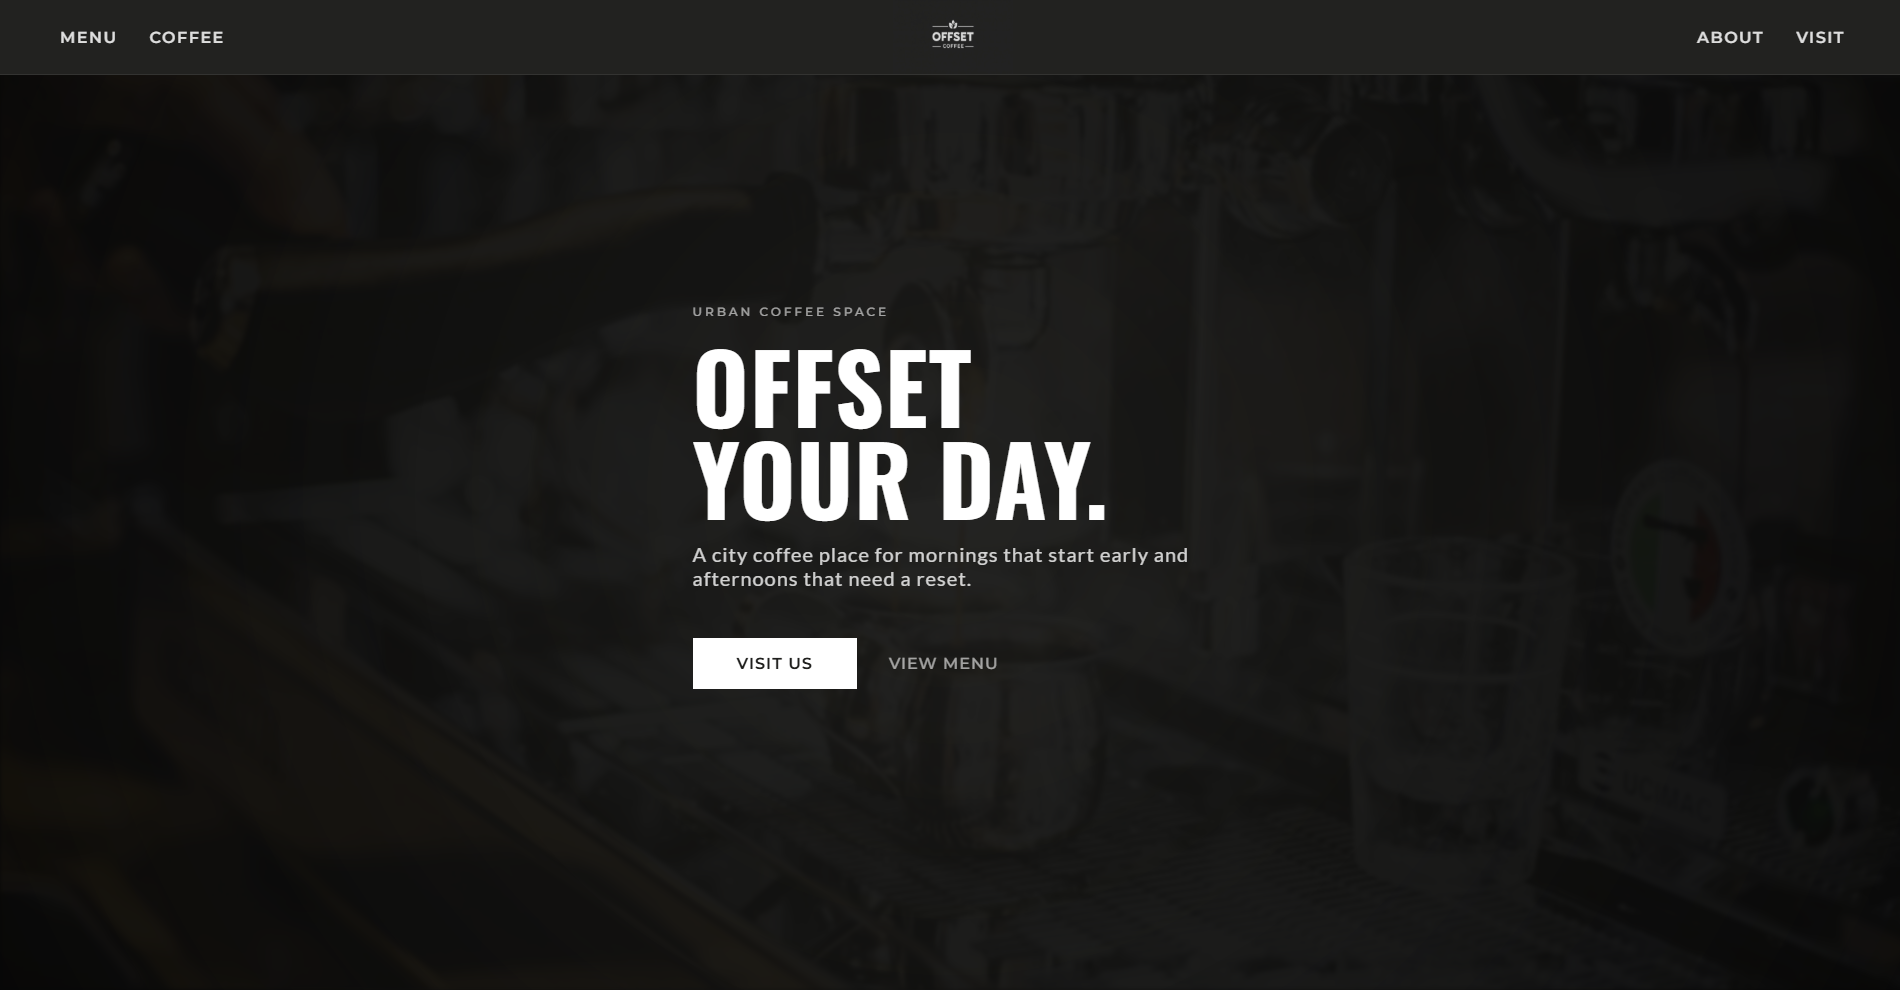
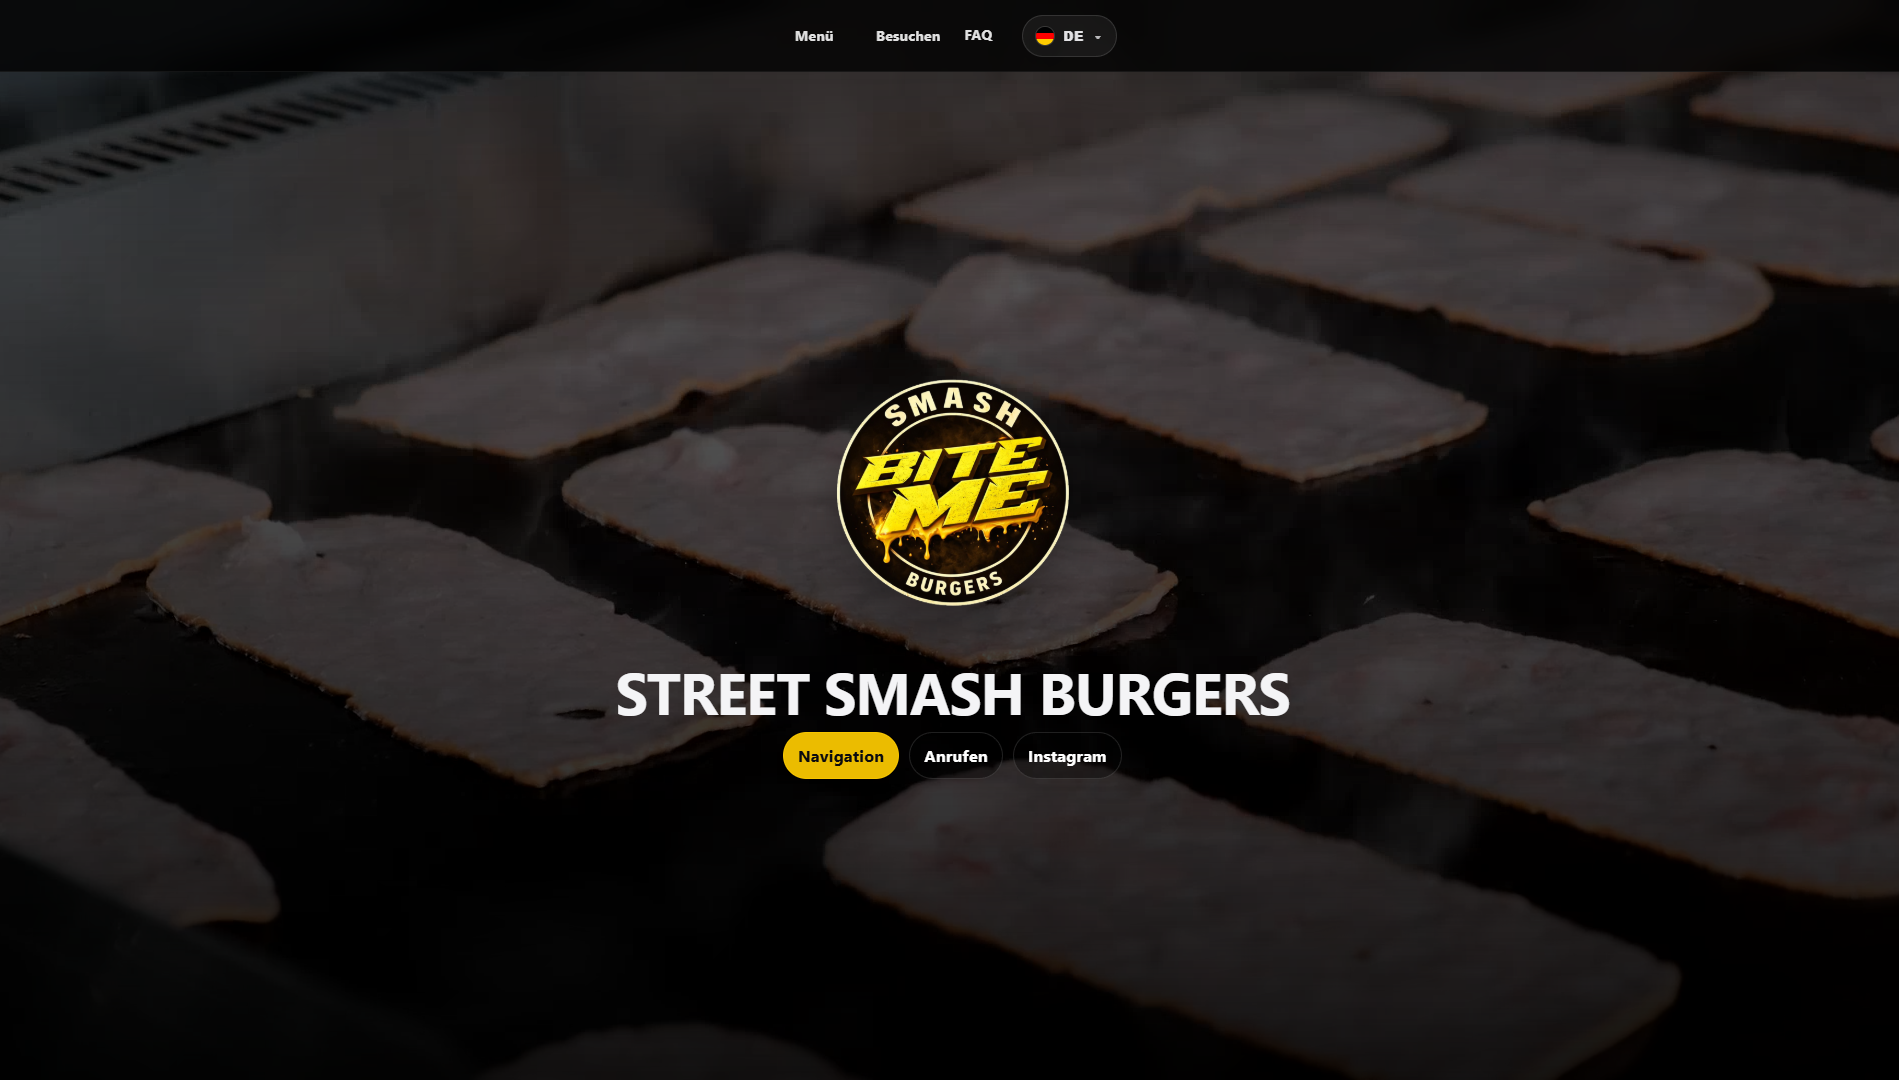
h1 edit, bite me project added

diff --git a/project/bite-me.html b/project/bite-me.html
@@ -5,19 +5,20 @@
     <meta charset="UTF-8">
     <meta name="viewport" content="width=device-width, initial-scale=1.0">
 
-    <title>OFFSET Coffee | Marek Oláh Web Developer | marek.codes</title>
-    
+    <title>BITE ME Burgers | Web projekt | Marek Oláh | marek.codes</title>
+    <meta name="description"
+        content="Prezentační web pro streetfood stánek BITE ME Burgers. Důraz na atmosféru značky, přehledné menu, mobilní použitelnost a rychlou orientaci.">
+
     <meta property="og:type" content="website">
-    <meta property="og:url" content="https://marek-codes.cz/project/offset-coffee">
-    <meta property="og:title" content="OFFSET Coffee | Web projekt | marek.codes">
-    <meta property="og:description" content="Minimalistická landing page pro kavárnu. Moderní design, CTA, responsivní web.">
+    <meta property="og:url" content="https://marek-codes.cz/project/bite-me">
+    <meta property="og:title" content="BITE ME Burgers | Web projekt | marek.codes">
+    <meta property="og:description"
+        content="Prezentační web pro streetfood stánek s důrazem na atmosféru značky, přehledné menu a rychlou orientaci.">
     <meta property="og:image" content="https://marek-codes.cz/assets/img/project-1.png">
     <meta property="og:image:width" content="1200">
     <meta property="og:image:height" content="630">
 
-    <link rel="canonical" href="https://marek-codes.cz/project/offset-coffee">
-
-    
+    <link rel="canonical" href="https://marek-codes.cz/project/bite-me">
 
     <!-- Google tag (gtag.js) -->
     <script async src="https://www.googletagmanager.com/gtag/js?id=G-PQL4NTPRN0"></script>
@@ -37,14 +38,12 @@
         gtag('config', 'G-PQL4NTPRN0', { anonymize_ip: true });
     </script>
 
-
     <link rel="stylesheet" href="/css/main.css">
     <link rel="stylesheet" href="/css/navbar.css">
     <link rel="stylesheet" href="/css/project-detail.css">
     <link rel="stylesheet" href="/css/footer.css">
     <link rel="stylesheet" href="/css/queries.css">
     <link rel="icon" href="/assets/icons/favicon.png">
-
 
     <style>
         @import url('https://fonts.googleapis.com/css2?family=Inter:wght@100..900&family=Space+Grotesk:wght@300..700&display=swap');
@@ -75,31 +74,34 @@
         </div>
     </header>
 
-
     <main class="project-detail">
         <div class="container">
             <div class="breadcrumbs reveal">
-                <a href="/#projects" data-cz="← Zpět na projekty" data-en="← Back to projects">← Zpět na
-                    projekty</a>
+                <a href="/#projects" data-cz="← Zpět na projekty" data-en="← Back to projects">← Zpět na projekty</a>
                 <span>/</span>
-                <span data-cz="OFFSET Coffee" data-en="OFFSET Coffee">OFFSET Coffee</span>
+                <span data-cz="BITE ME Burgers" data-en="BITE ME Burgers">BITE ME Burgers</span>
             </div>
 
             <div class="wrap">
                 <!-- vlevo -->
                 <section class="project-hero reveal">
-                    <img src="/assets/img/project-1.png" alt="OFFSET Coffee, náhled webu">
+                    <img src="/assets/img/project-1.png" alt="BITE ME Burgers, náhled webu">
                 </section>
 
                 <!-- vpravo -->
                 <aside class="project-meta reveal">
-                    <h1 class="project-title" data-cz="OFFSET Coffee" data-en="OFFSET Coffee">OFFSET Coffee</h1>
+                    <h1 class="project-title" data-cz="BITE ME Burgers" data-en="BITE ME Burgers">
+                        BITE ME Burgers
+                    </h1>
 
                     <p class="project-lead"
-                        data-cz="Minimalistická landing page pro kavárnu, postavená na vibe a rychlé orientaci. Navrhl jsem čistou strukturu sekcí s jasnými CTA, aby se návštěvník rychle dostal k menu, lokaci a kontaktu"
-                        data-en="A minimalist landing page for a café, built around vibe and quick orientation. Clean layout, clear CTAs, and a menu section that helps visitors decide fast.">
-                        Minimalistická landing page pro kavárnu, postavená na vibe a rychlé orientaci. Navrhl jsem
-                        čistou strukturu sekcí s jasnými CTA, aby se návštěvník rychle dostal k menu, lokaci a kontaktu
+                        data-cz="Web pro streetfood koncept BITE ME Burgers byl navržen s cílem spojit výraznou vizuální atmosféru značky s jednoduchou a funkční strukturou. Hlavní důraz byl na rychlé pochopení nabídky, přehledné zobrazení menu, snadnou orientaci na mobilu a jasné odkomunikování lokace, otevírací doby a kontaktu. Cílem nebylo jen vytvořit hezkou prezentaci, ale web, který podpoří reálné návštěvy stánku a bude působit moderně, svižně a důvěryhodně."
+                        data-en="The website for the street food concept BITE ME Burgers was designed to combine a bold brand atmosphere with a simple and functional structure. The main focus was on quick understanding of the offer, a clear menu presentation, easy mobile navigation, and clear communication of the location, opening hours, and contact details. The goal was not just to create a good-looking presentation, but a website that supports real visits to the stand and feels modern, fast, and trustworthy.">
+                        Web pro streetfood koncept BITE ME Burgers byl navržen s cílem spojit výraznou vizuální
+                        atmosféru značky s jednoduchou a funkční strukturou. Hlavní důraz byl na rychlé pochopení
+                        nabídky, přehledné zobrazení menu, snadnou orientaci na mobilu a jasné odkomunikování lokace,
+                        otevírací doby a kontaktu. Cílem nebylo jen vytvořit hezkou prezentaci, ale web, který podpoří
+                        reálné návštěvy stánku a bude působit moderně, svižně a důvěryhodně.
                     </p>
 
                     <div class="tags">
@@ -111,52 +113,51 @@
                     </div>
 
                     <div class="actions">
-                        <a class="btn" href="https://offset-coffee.netlify.app/" target="_blank" rel="noopener"
+                        <a class="btn" href="https://bite-me-burgers.cz/" target="_blank" rel="noopener"
                             data-cz="Zobrazit live" data-en="View live">Zobrazit live</a>
 
                         <a class="btn-outline" href="/#contact" data-cz="Chci podobný web"
-                            data-en="I want one like this">Chci podobný web</a>
+                            data-en="I want a similar website">Chci podobný web</a>
                     </div>
 
                     <div class="detail-section">
                         <h3 data-cz="Co jsem řešil" data-en="What I focused on">Co jsem řešil</h3>
                         <ul>
-                            <li data-cz="Typografie a vizuální hierarchie pro rychlé pochopení nabídky"
-                                data-en="Typography and visual hierarchy for fast understanding">
-                                Typografie a vizuální hierarchie pro rychlé pochopení nabídky
+                            <li data-cz="Přehledné zobrazení menu a klíčových informací"
+                                data-en="Clear presentation of the menu and key information">
+                                Přehledné zobrazení menu a klíčových informací
                             </li>
-                            <li data-cz="CTA sekce, aby uživatel vždy věděl další krok"
-                                data-en="CTA sections so the user always knows the next step">
-                                CTA sekce, aby uživatel vždy věděl další krok
+                            <li data-cz="Atmosféru značky a silnější vizuální prezentaci"
+                                data-en="Brand atmosphere and a stronger visual presentation">
+                                Atmosféru značky a silnější vizuální prezentaci
                             </li>
-                            <li data-cz="Micro-interakce na hover a jemný motion bez přehnaností"
-                                data-en="Hover micro-interactions and subtle motion without overdoing it">
-                                Micro-interakce na hover a jemný motion bez přehnaností
+                            <li data-cz="Mobilní použitelnost a rychlou orientaci návštěvníka"
+                                data-en="Mobile usability and fast visitor orientation">
+                                Mobilní použitelnost a rychlou orientaci návštěvníka
                             </li>
                         </ul>
                     </div>
 
                     <div class="detail-section">
                         <h3 data-cz="Výsledek" data-en="Result">Výsledek</h3>
-                        <p data-cz="Přehledná landing page, která působí moderně a vede návštěvníka k akci."
-                            data-en="A clean, modern landing page that guides visitors to take action.">
-                            Přehledná landing page, která působí moderně a vede návštěvníka k akci.
+                        <p data-cz="Vznikl svižný prezentační web, který propojuje vizuální energii značky s praktickou použitelností a podporuje reálné návštěvy provozu."
+                            data-en="The result is a fast presentation website that connects the brand’s visual energy with practical usability and supports real visits to the business.">
+                            Vznikl svižný prezentační web, který propojuje vizuální energii značky s praktickou
+                            použitelností a podporuje reálné návštěvy provozu.
                         </p>
                     </div>
                 </aside>
             </div>
 
             <section class="gallery reveal">
-                <img src="/assets/img/PROJECT-DETAIL/OFFSET-about.png" alt="OFFSET Coffee, sekce About"
+                <img src="/assets/img/PROJECT-DETAIL/biteme-menu.png" alt="BITE ME, sekce menu"
                     loading="lazy" decoding="async">
 
-                <img src="/assets/img/PROJECT-DETAIL/OFFSET-menu.png" alt="OFFSET Coffee, sekce Menu"
+                <img src="/assets/img/PROJECT-DETAIL/biteme-visit.png" alt="BITE ME, sekce návštěvy"
                     loading="lazy" decoding="async">
             </section>
         </div>
     </main>
-
-
 
     <footer id="footer">
         <div class="container footer-inner">
@@ -188,8 +189,8 @@
                 </button>
 
                 <small data-cz="© 2026 Marek Oláh. Všechna práva vyhrazena."
-                    data-en="© 2026 Marek. All rights reserved.">
-                    © 2026 Marek. Všechna práva vyhrazena.
+                    data-en="© 2026 Marek Oláh. All rights reserved.">
+                    © 2026 Marek Oláh. Všechna práva vyhrazena.
                 </small>
 
                 <div class="footer-social" aria-label="Social links">
@@ -214,7 +215,6 @@
         </div>
     </footer>
 
-
     <div id="cookie-banner" class="cookie-banner" role="dialog" aria-live="polite" aria-label="Cookie consent">
         <div class="cookie-banner__content">
             <p class="cookie-banner__text"
@@ -231,8 +231,6 @@
             </div>
         </div>
     </div>
-
-
 
     <script src="/js/navbar.js"></script>
     <script src="/js/main.js"></script>

diff --git a/index.html b/index.html
@@ -5,27 +5,27 @@
     <meta charset="UTF-8">
     <meta name="viewport" content="width=device-width, initial-scale=1.0">
 
-    <title>marek.codes | Web developer, Marek Oláh</title>
+    <title>marek-codes | Web developer, Marek Oláh</title>
     <meta name="description"
         content="Jsem Marek. Stavím moderní a rychlé weby s důrazem na čistý design, výkon a detail. Mrkni na projekty a napiš mi.">
     <link rel="canonical" href="https://marek-codes.cz/">
 
     <meta property="og:type" content="website">
     <meta property="og:url" content="https://marek-codes.cz/">
-    <meta property="og:title" content="Marek Oláh | Web developer, tvorba webů na míru | marek.codes">
+    <meta property="og:title" content="Marek Oláh | Web developer, tvorba webů na míru | marek-codes">
     <meta property="og:description" content="Moderní rychlé weby. Portfolio projektů, služby, kontakt.">
     <meta property="og:locale" content="cs_CZ">
     <meta property="og:locale:alternate" content="en_US">
     <meta property="og:image" content="https://marek-codes.cz/assets/img/og-img.png">
     <meta property="og:image:width" content="1200">
     <meta property="og:image:height" content="630">
-    <meta property="og:image:alt" content="marek.codes – Moderní rychlé weby (design, výkon, detail)">
+    <meta property="og:image:alt" content="marek-codes – Moderní rychlé weby (design, výkon, detail)">
     <meta property="og:image:secure_url" content="https://marek-codes.cz/assets/img/og-img.png">
     <meta property="og:image:type" content="image/png">
 
 
     <meta name="twitter:card" content="summary_large_image">
-    <meta name="twitter:title" content="Marek Oláh | Web developer, marek.codes">
+    <meta name="twitter:title" content="Marek Oláh | Web developer, marek-codes">
     <meta name="twitter:description"
         content="Jsem Marek. Stavím moderní a rychlé weby s důrazem na čistý design, výkon a detail. Mrkni na projekty a napiš mi.">
     <meta name="twitter:image" content="https://marek-codes.cz/assets/img/og-img.png">
@@ -78,7 +78,7 @@
 
     <header id="navbar">
         <div class="container nav-container">
-            <a href="/" class="logo">marek.codes</a>
+            <a href="/" class="logo">marek-codes</a>
 
             <button class="nav-toggle" aria-label="Open menu">
                 <span></span>
@@ -106,14 +106,15 @@
     <section id="hero">
         <div class="section-bg"></div>
         <div class="container section-card hero-content">
-            <h1 data-cz="Stavím moderní, funkční weby s důrazem na detail." 
-            data-en="I build modern, functional websites with attention to detail."> 
-            Stavím moderní, funkční weby s důrazem na detail.
+            <h1 data-cz="Weby navržené pro přehlednost, rychlost a reálné použití." 
+            data-en="Websites designed for clarity, speed, and real-world use."> 
+            Weby navržené pro přehlednost, rychlost a reálné použití.
             </h1>
 
-            <p data-cz="Jmenuji se Marek a věnuji se návrhu a vývoji moderních webových stránek. Zakládám si na čistém kódu, výkonu a přehledném řešení."
-                data-en="My name is Marek, and I design and build modern websites. I focus on clean code, performance, and clarity.">
+            <p data-cz="Jmenuji se Marek a věnuji se návrhu a vývoji moderních webových stránek. Zakládám si na čistém kódu, výkonu a přehledném řešení. Vyřeším pro vás vše od návrhu až po nasazení."
+                data-en="My name is Marek, and I design and build modern websites. I focus on clean code, performance, and clarity. I can handle everything from design to deployment for you.">
                 Jmenuji se Marek a věnuji se návrhu a vývoji moderních webových stránek. Zakládám si na čistém kódu, výkonu a přehledném řešení.
+                Vyřeším pro vás vše od návrhu až po nasazení.
             </p>
 
             <div class="hero-buttons">
@@ -165,18 +166,17 @@
 
 
                                 <article class="project-card">
-                    <a href="/project/offset-coffee" class="project-link">
+                    <a href="/project/bite-me.html" class="project-link">
 
                         <div class="project-image">
-                            <img src="/assets/img/project-1.png" alt="OFFSET Coffee, moderní landing page kavárny">
+                            <img src="/assets/img/project-1.png" alt="Bite Me Burgers, náhled webu" loading="lazy" decoding="async">
                         </div>
 
                         <div class="project-content">
-                            <h3 data-cz="Kavárna OFFSET Coffee" data-en="OFFSET Coffee café">Kavárna OFFSET Coffee</h3>
-                            <p data-cz="Minimalistický web pro městskou kavárnu, která staví na atmosféře, jasných CTA a přehledném menu s cenami. Cíl je ukázat vibe, nabídku a dovést člověka k návštěvě."
-                                data-en="A minimalist website for an urban coffee shop focused on atmosphere, clear CTAs, and a priced menu. The goal is to show the vibe, the offer, and guide visitors to come in.">
-                                Minimalistický web pro městskou kavárnu, která staví na atmosféře, jasných CTA a
-                                přehledném menu s cenami. Cíl je ukázat vibe, nabídku a dovést člověka k návštěvě.
+                            <h3 data-cz="Bite Me Burgers" data-en="Bite Me Burgers">Bite Me Burgers</h3>
+                            <p data-cz="Prezentační web pro streetfood stánek na Folmavě, navržený tak, aby rychle ukázal menu, lokaci a atmosféru značky. Důraz byl na mobilní použitelnost, svižnost a jasné předání informací pro návštěvníky."
+                                data-en="A presentation website for a street food stand in Folmava, designed to quickly show the menu, location, and brand atmosphere. The focus was on mobile usability, speed, and clear communication for visitors.">
+                                Prezentační web pro streetfood stánek na Folmavě, navržený tak, aby rychle ukázal menu, lokaci a atmosféru značky. Důraz byl na mobilní použitelnost, svižnost a jasné předání informací pro návštěvníky.
                             </p>
                             <span class="project-cta" data-cz="Detail →" data-en="Detail →">Detail →
                                 </span>
@@ -565,7 +565,7 @@
     <footer id="footer">
         <div class="container footer-inner">
             <div class="footer-brand">
-                <a href="/" class="footer-logo">marek.codes</a>
+                <a href="/" class="footer-logo">marek-codes</a>
                 <p data-cz="Moderní rychlé weby. Čistý design, výkon, detail."
                     data-en="Modern fast websites. Clean design, performance, detail.">
                     Moderní rychlé weby. Čistý design, výkon, detail.

diff --git a/css/project-detail.css b/css/project-detail.css
@@ -105,8 +105,8 @@
 }
 
 .actions a {
-  flex: 1 1 180px;      /* dva vedle sebe, ale když je málo místa, tak se zalomí */
-  min-width: 0;         /* důležitý proti přetékání */
+  flex: 1 1 180px;      
+  min-width: 0;         
   max-width: 100%;
   box-sizing: border-box;
 }
